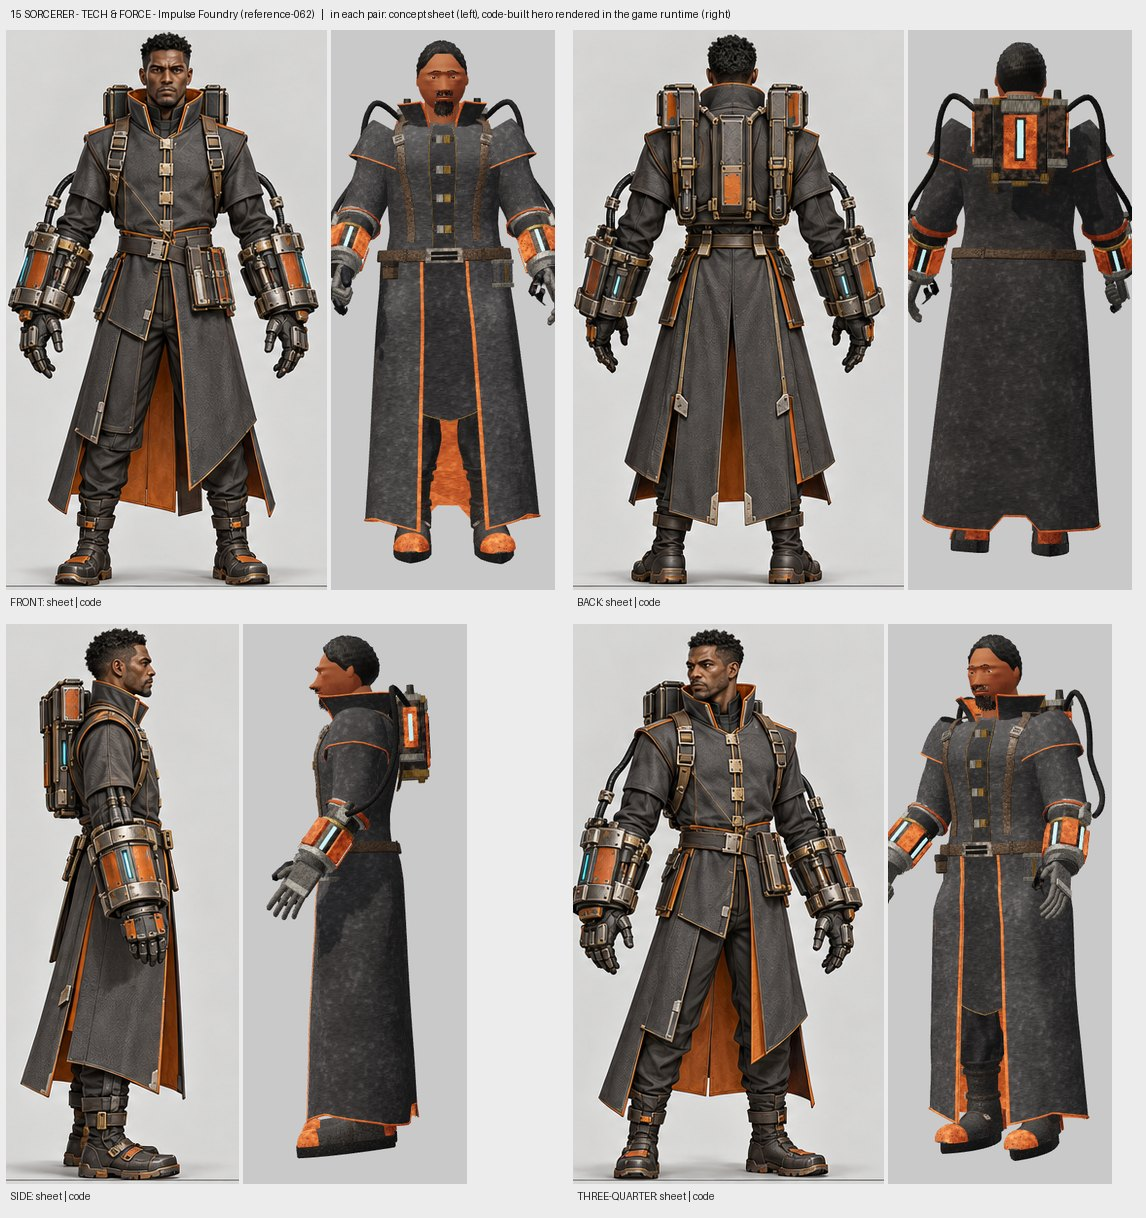
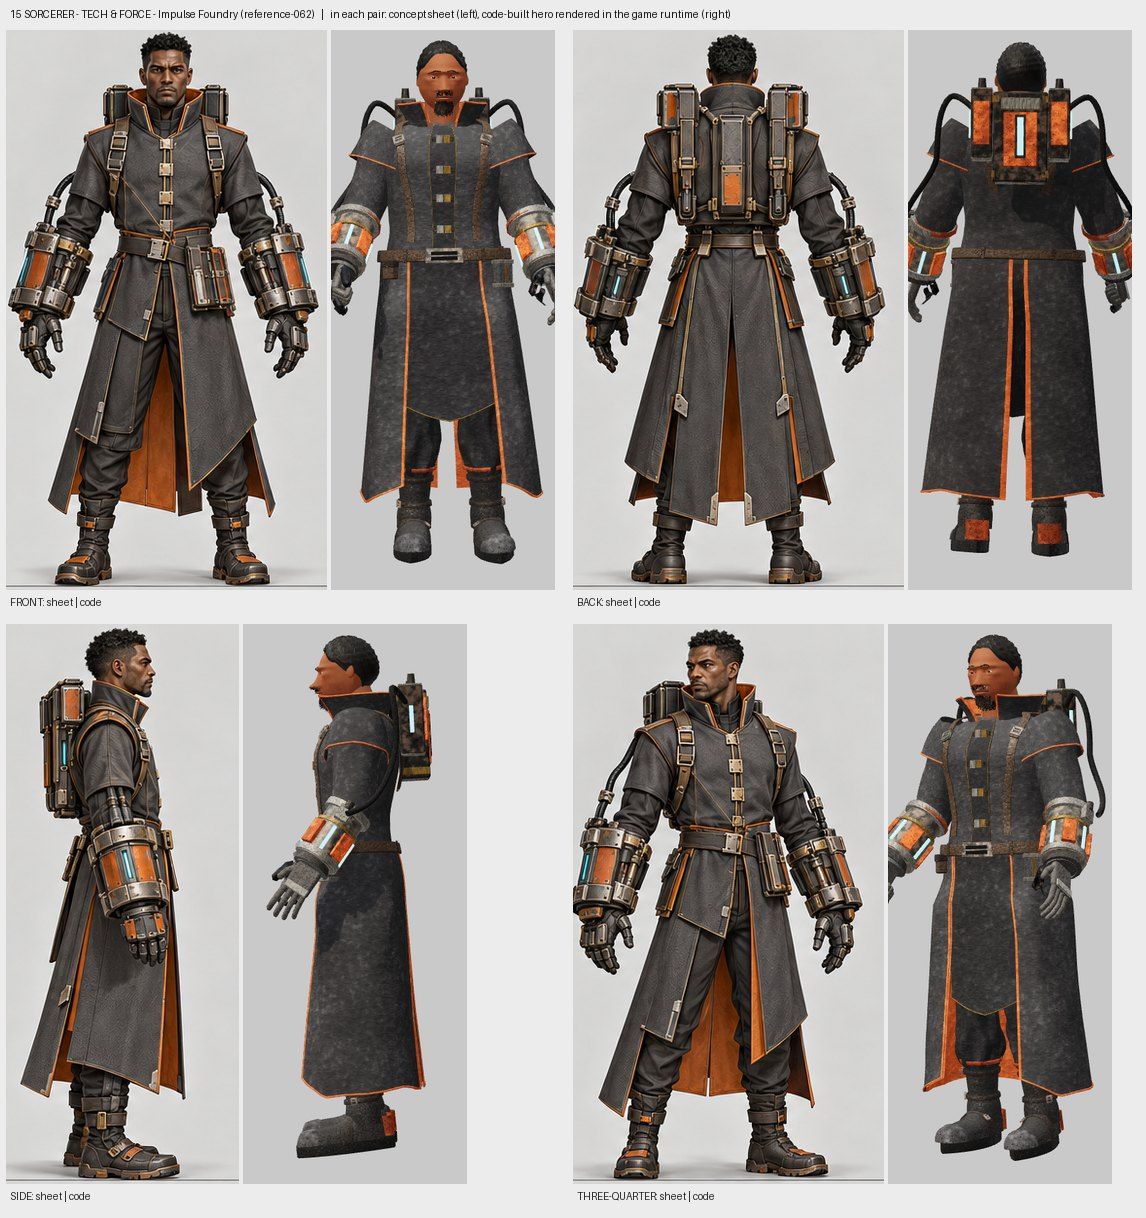
Heroes of Oaths 11 to 15 wear code-built costumes from their sheets: final evidence and honest per-hero notes
Claude-Session: https://claude.ai/code/session_01SYnDkjpH2GusYDnF3Uckgg

diff --git a/docs/upgrades/CHARACTERS_FROM_SHEETS.md b/docs/upgrades/CHARACTERS_FROM_SHEETS.md
@@ -83,11 +83,11 @@ reference-092..095 are sorcerer line-ups and 096..098 ninja line-ups across elem
 | 08 | POISON - Bitterglass Guild | reference-077 | reference-076 | reference-106 | not started | not started |
 | 09 | LIGHT & HOLY - Oath of Daybreak | reference-075 | reference-074 | reference-105 | not started | not started |
 | 10 | COSMIC & GRAVITY - Tidal Observatory | reference-073 | reference-072 | reference-104 | not started | not started |
-| 11 | SHADOW & VOID - The Missing Court | reference-071 | reference-070 | reference-103 | not started | not started |
-| 12 | BLOOD - Sanguine Covenant | reference-069 | reference-067 | reference-102 | not started | not started |
-| 13 | ARCANE & ILLUSION - Folded Theatre | reference-068 | reference-066 | reference-100 | not started | not started |
-| 14 | TIME & MOTION - Escapement Road | reference-065 | reference-064 | reference-099 | not started | not started |
-| 15 | TECH & FORCE - Impulse Foundry | reference-063 | reference-062 | reference-101 | not started | not started |
+| 11 | SHADOW & VOID - The Missing Court | reference-071 | reference-070 | reference-103 | partial (see below) | **done**, with differences |
+| 12 | BLOOD - Sanguine Covenant | reference-069 | reference-067 | reference-102 | partial (see below) | **done**, with differences |
+| 13 | ARCANE & ILLUSION - Folded Theatre | reference-068 | reference-066 | reference-100 | partial (see below) | partial (see below) |
+| 14 | TIME & MOTION - Escapement Road | reference-065 | reference-064 | reference-099 | **done**, with differences | partial (see below) |
+| 15 | TECH & FORCE - Impulse Foundry | reference-063 | reference-062 | reference-101 | **done**, with differences | **done**, with differences |
 
 ## Per-hero status
 
@@ -133,6 +133,93 @@ Differs from the sheet:
 - The apron is wider and brighter than the painted one, without its riveted strap ends.
 - Hair is a combed cap, locks and a bun; no loose curls at the temples. The face is the procedural head and
   does not resemble the portrait.
+
+### Oaths 11 to 15 (group c)
+
+Ten recipes, `recipes/oath-11-ninja.js` to `oath-15-sorcerer.js`, and one builder file, `builders-c.js`, whose
+builders are named `c:...` and brought by each recipe with `builders: C`: `c:kit` (hard gear assembled from boxes,
+bars, rings, cylinders, balls and cut prisms on an anchor: trunk, limb, head, foot or bone), `c:hose` (hoses, tubes
+and chains through anchored waypoints), `c:drape` (cloth hanging from the waist between two angles with any hem
+line, lining and trim: asymmetric skirts, tabards, tassets, open coats), `c:patch` (panels cut on the trunk:
+wrap-over fronts, vests, plates), `c:collar`, `c:bellSleeve`, `c:headShell`, `c:headBand`, `c:crest`, `c:curls`,
+`c:locks`, `c:tail`, `c:strands`. Evidence for each hero: `docs/qa/characters/oath-NN-<discipline>.jpg` (sheet on
+the left, code in the game runtime on the right, idle pose). All ten hide the baked costume, keep only the baked
+weapon and wear code hands. `profiles.js` was edited for four of these heroes so the head matches the sheet
+(11 sorcerer bald with grey stubble, 13 sorcerer young with black hair, 15 ninja and 15 sorcerer brown skin,
+15 sorcerer short beard).
+
+Differences shared by all ten: joints are the rig's (larger head, shorter legs than the paintings); faces are the
+procedural head, not likenesses; hands are the generic code hands; each holds its baked weapon where the sheet
+shows empty hands; cloth, leather and metal use the shared procedural shader, so brocade and embroidery patterns
+(12 sorcerer robe, 13 sorcerer front panel) are not drawn. Where a sheet's front and back views disagree about
+which side an asymmetric piece is on, the front view was followed.
+
+- **oath-11-ninja (071), partial.** Present: short-sleeved black tunic, grey wrap-over front and shoulder strips,
+  rolled scarf collar, bound forearms with grey bands, plate on the right forearm, fingerless gloves, two belts,
+  asymmetric skirt (short over the left hip, long pointed fall with grey under-layer on the right), slim
+  trousers, thigh case on two straps, ankle boots, black half mask with the bone-white cheek panel, high
+  ponytail with pale tie, temple locks. Differs: the skirt hangs closer to the leg than the painted wide fall;
+  hair is flatter on top and the tail thinner; one grey front layer where the sheet has two; no knee pads; the
+  belt buckles are plain frames.
+- **oath-11-sorcerer (070), done.** Present: tall open collar edged in silver, velvet coat to the ankle open on a
+  charcoal under-robe, placket with four square clasps on straps, shoulder caps, bell sleeves with silver hem,
+  side and back points cut in the coat hem over a charcoal layer, plain boots, bald head, grey stubble. Differs:
+  shoulder caps are round, not the painted pointed wings; the lower coat is one layer cut to points rather than
+  separate overlapping panels; the cuff lining is plain.
+- **oath-12-ninja (069), partial.** Present: leather helm with raised faceplate, steel crest and side buckles,
+  dark cloth neck, sleeveless oxblood vest with steel-piped V front over a dark undershirt, bare arms, bound
+  forearms with buckled bands, wide belt with four enamelled anchor rings, a heavy chain looped at each hip,
+  pointed front and back tassets and hip panels, gathered trousers, knee bands, bound shins, strapped boots.
+  Differs: arms are smooth tubes with a shoulder ball, not modelled muscle; the helm is rounder than the painted
+  almond shape and has no brow facets; tassets are single panels without the painted layering and iron corners;
+  the vest is fuller at the waist.
+- **oath-12-sorcerer (067), done.** Present: burgundy wrap robe piped in brass, open collar, bell sleeves,
+  charcoal shoulder over-vest, shoulder straps with brass buckles, brass-caged blood vials on both shoulders with
+  tubes arching to a harness ring on the back, wide belt with crossing straps, brass-bound hip case, long coat
+  open over a diagonal apron and charcoal under-skirt, buckled boots with brass caps, hair drawn back to a low
+  knot, earrings. Differs: no woven pattern on the robe; vials follow the upper arm, so they tilt with it; hair
+  is combed locks, not braids with beads; in a run the under-skirt shows through the back of the coat.
+- **oath-13-ninja (068), partial.** Present: charcoal jacket with high plum-lined collar, plum wrap over the right
+  shoulder front and back, back clamp, thin belt, short diagonal front skirt and long plum-lined tail on the
+  right, steel frame-and-socket bracers on both forearms, gloves, thigh pouch, slim trousers, strapped boots with
+  steel caps, folded porcelain blade mask over a black under-mask, head strap with side buckles, spiky black
+  hair. Differs: the mask is a single folded plate, narrower than the painted one; the jacket front is longer
+  than painted; the back strap is the wrap's edge, not a separate strap.
+- **oath-13-sorcerer (066), partial.** Present: aubergine jacket with stand collar, mauve lacquer facing with a
+  pearl, folded lacquer wings front and back, belt with hexagonal pearl fastening, silver-bound spell case, layered
+  lacquer forearm cuffs with pearls, fingerless gloves, plum front panel and mauve lacquer falls, striped
+  trousers with knee straps, boots with silver caps, short black hair. Differs most of the ten: the wings are flat
+  triangles, larger and plainer than the painted folded collar; the jacket lacks the painted crossing lapels; the
+  skirt panels are simpler and the front panel has no gold arcs; the hair is a rough bob.
+- **oath-14-ninja (065), done.** Present: sleeveless graphite body with brass zip, teal chest and back panels
+  piped in brass, teal collar, bare upper arms, long gauntlets with a lit brass slot, two belts and a fine chain,
+  toothed and spoked hip flywheel with lit hub, teal tabards front right and back, riveted leather hip panel,
+  cargo pockets, piped trousers, boots with brass ankle struts and wheels, slatted lit visor with side hinges,
+  high-top curls. Differs: the visor's three slats read as one band at distance; the flywheel is flatter than
+  painted; trousers are fuller.
+- **oath-14-sorcerer (064), partial.** Present: teal jacket with ivory-lined collar, ivory facing under a buttoned
+  teal flap, crossed back harness, brass-and-glass escapement cuffs with a gear on both forearms, belt and glass
+  case, teal coat skirt over a longer ivory layer, back hub with jointed arm, rod and pendulum bob, knee bands,
+  boots with brass caps, top knot. Differs: the skirt is a closed bell rather than the painted open wrap with
+  separate ivory panels; cuffs are shorter and brighter than painted; the pendulum is rigid on the upper back and
+  does not swing; the knot is small.
+- **oath-15-ninja (063), done.** Present: sleeveless zipped suit with high collar, webbing harness with buckles,
+  burnt orange chest, collar-bone and spine plates, arm straps, bracers with orange plate and lit slot, gloves,
+  hip couplings with lit lenses and two ribbed hose loops a side, thigh straps and pouches, knee pads, knee
+  actuators with lit lens and thigh and shin struts, heavy boots with orange caps, faceplate with lit chevron,
+  orange cheek plates, ear couplings, rope locks over cropped sides. Differs: the chest plate is two flat panels
+  without the painted steel frame; hoses are thinner; boots have fewer plates.
+- **oath-15-sorcerer (062), done.** Present: graphite coat open at the front on an orange lining and vented at the
+  back, orange piping, collar with orange lining, shoulder caps, placket with four clasps, harness straps, belt
+  with case and pouch, power pack with ceramic doors, lit cell and two side canisters, cables to both arms,
+  steel drum gauntlets with ceramic shoes and lit cells, steel hands, heavy boots, cropped curls, short beard.
+  Differs: the pack and gauntlets are simpler and smaller than painted; the coat has no corner plates; cables
+  are single hoses.
+
+Seen on screen (turnaround stage through BodyFactory, high tier): all ten idle from four sides; close views of
+11 sorcerer, 12 ninja, 13 sorcerer, 15 ninja; 15 ninja in `attack_1`; 12 sorcerer running. Not seen: these heroes
+in the running game, the low and medium tiers on screen (they build and pass the unit test), the other clips.
+Triangles on high: 23k (11 sorcerer) to 39k (15 sorcerer), one draw call each.
 
 ### All other heroes: not started
 
